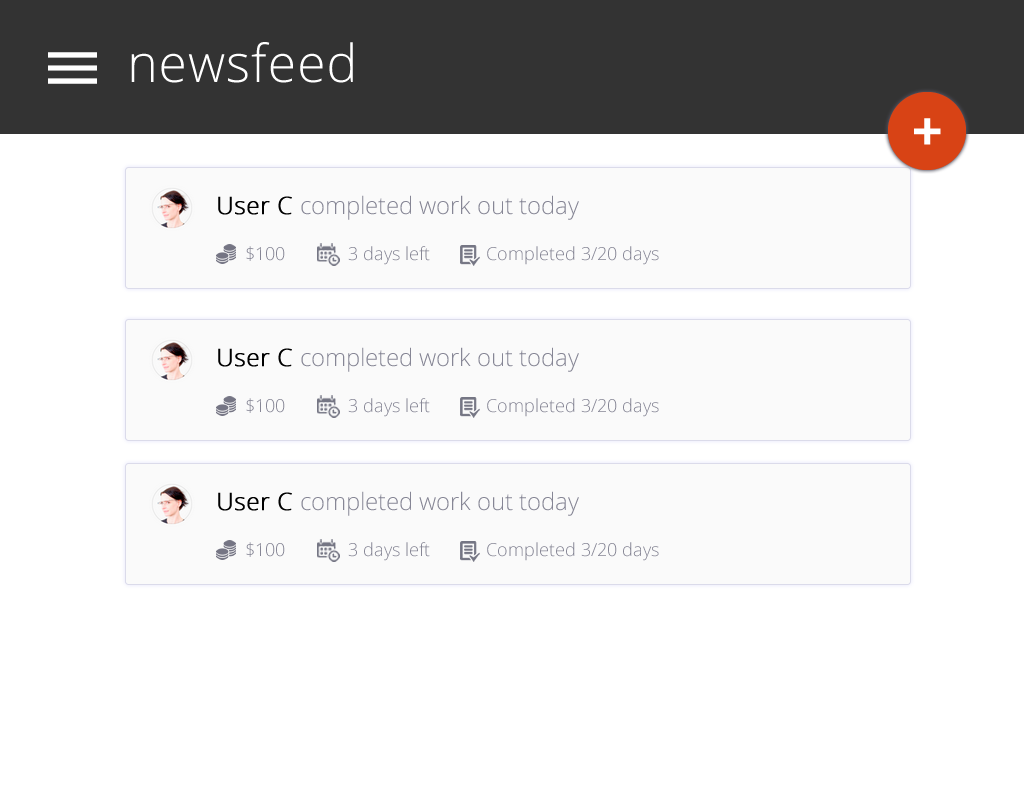
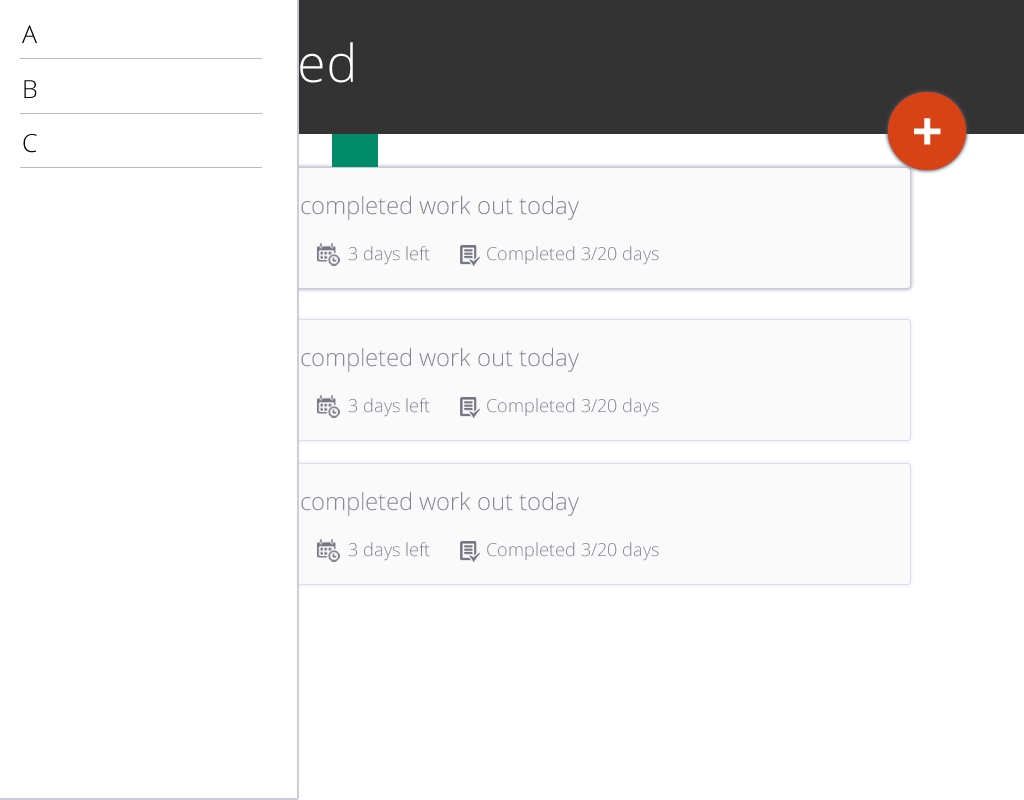
design vv2

diff --git a/Design/HTML/style.css b/Design/HTML/style.css
@@ -3,7 +3,6 @@
 
 html, body{
 	padding:0;
-	color:black;
 	font-family: 'Open Sans', sans-serif;
 	font-size:14px;
 	margin:0;
@@ -62,3 +61,96 @@ input{
 	background-color:#3F9FDC;
 	border:1px #3F9FDC solid;
 }
+/* new style sheet*/
+#navbar{
+	height:110px;
+	padding-top:25px;
+	background:#333;
+	color:white;
+}
+#navbar h1{
+	font-weight:300;
+	margin:0;
+	font-size:52px;
+}
+#sidebar-a{
+	width:126px;
+	height:80px;
+	background:url(Resources/Images/menu.png) center center no-repeat;
+	float:left
+}
+#content{
+	width:784px;
+	margin:33px auto 33px auto;
+}
+.event{
+	border:1px #DBDBEA solid;
+	border-radius:3px;
+	background:#FAFAFA;
+	box-shadow:0px 0px 2px #B9B9C8;
+	padding:18px 22px 16px 22px;
+	width:748px;
+	height:76px;
+	font-size:24px;
+	color:858593
+}
+.event-detail{
+	color:#858593;
+}
+.event-meta{
+	color:#858593;
+	font-size:18px;
+	margin-top:14px;
+	margin-left:63px;
+}
+.event a{
+	color:black
+}
+.event img{
+	float:left;
+	margin-right:13px
+}
+#sidebar{
+	position:absolute;
+	height:100%;
+	width:300px;
+	border-right:1px #CCCDDB solid;
+	background:white;
+	z-index:999;
+	display:none;
+}
+
+#exit{
+	position:absolute;
+	height:100%;
+	width:100%;
+	background:none;
+	z-index:998;
+	display:none;
+}
+.money{
+	background:url(Resources/Images/s-money.png) left center no-repeat;
+	padding-left:28px;
+	float:left;
+}
+.date{
+	background:url(Resources/Images/s-date.png) left center no-repeat;
+	padding-left:28px;
+	float:left;
+	margin-left:29px;
+}
+.progress{
+	background:url(Resources/Images/s-process.png) left center no-repeat;
+	padding-left:28px;
+	float:left;
+	margin-left:29px;
+}
+#add{
+	background:url(Resources/Images/add.png);
+	width:87px;
+	height:85px;
+	position:absolute;
+	right:54px;
+	top:92px;
+}
+/* new style sheet ends */

diff --git a/Design/HTML/interrior page.html b/Design/HTML/interrior page.html
@@ -6,10 +6,32 @@
 <script type="text/javascript" src="Resources/JS/jquery.min.js"></script>
 <script type="text/javascript" src="Resources/JS/jquery.backstretch.min.js"></script>
 <link href="style.css" rel="stylesheet" />
+<script type="text/javascript">
+$( document ).ready(function() {
+$('#sidebar-a').click(function () {
+   $('#sidebar').show();
+   $('#exit').show();
+});
+$('#exit').click(function () {
+   $('#sidebar').hide();
+   $('#exit').hide();
+});
+});
+</script>
+
 </head>
 
 <body>
 <!-- header begins -->
+	<!-- side bar begins -->
+		<div id="sidebar">
+        
+        	<!-- sidebar content here -->
+        
+        </div>
+        <div id="exit">
+        
+        </div>
 <div id="navbar">
 
 	<a href="#" id="sidebar-a"></a> <!-- sidebar link-->
@@ -18,12 +40,6 @@
 
 	<h1>News Feed <!-- insert page name here --></h1>
 </div>
-	<!-- side bar begins -->
-		<div id="sidebar">
-        
-        	<!-- sidebar content here -->
-        
-        </div>
     
     <!-- side bar ends -->
 
@@ -41,10 +57,10 @@
 	<!-- newsfeed page -->
 
 		<div id="content">
-        
+     <!-- event starts-->   
         	<div class="event">
             
-            	<img src="user.png" alt="" title="" />
+            	<img src="Resources/Images/user.png" alt="" title="" />
                 
                 <a href="#">User C</a> 
                 
@@ -72,10 +88,13 @@
                 
                 </div>
             
+		<div style="clear:both"></div>
             
-            </div>
+        <br/><br/>
+        <!-- event ends -->
         
-
+             </div>
+       
 		</div>
 
 	<!-- newsfeed ends -->
